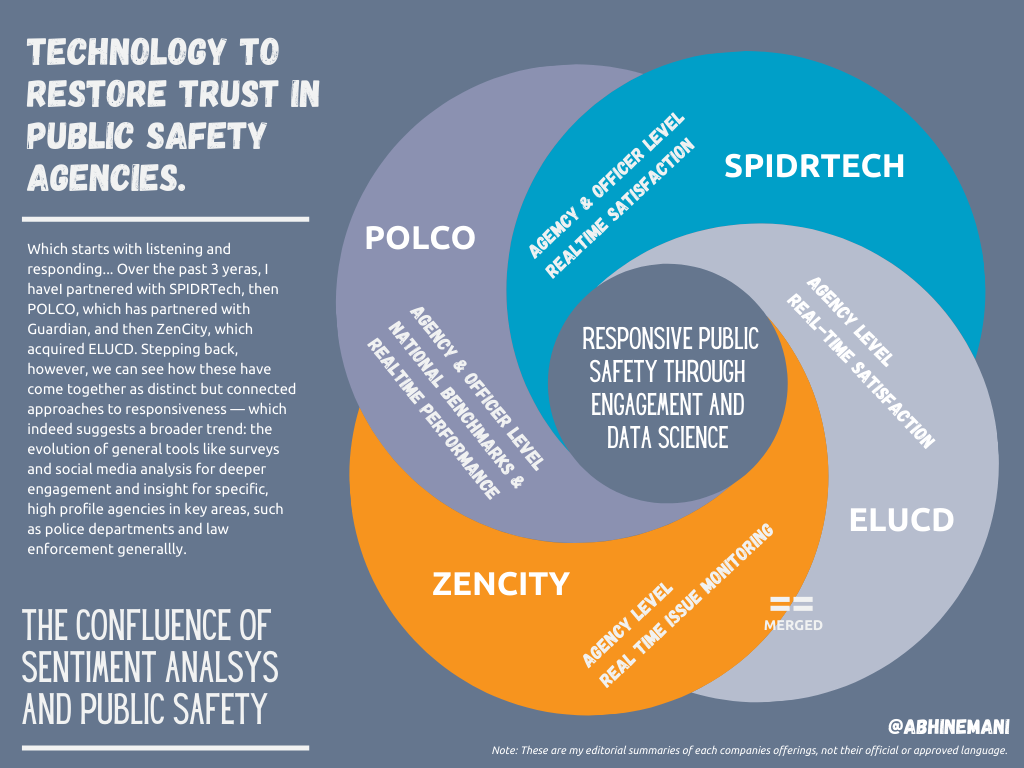
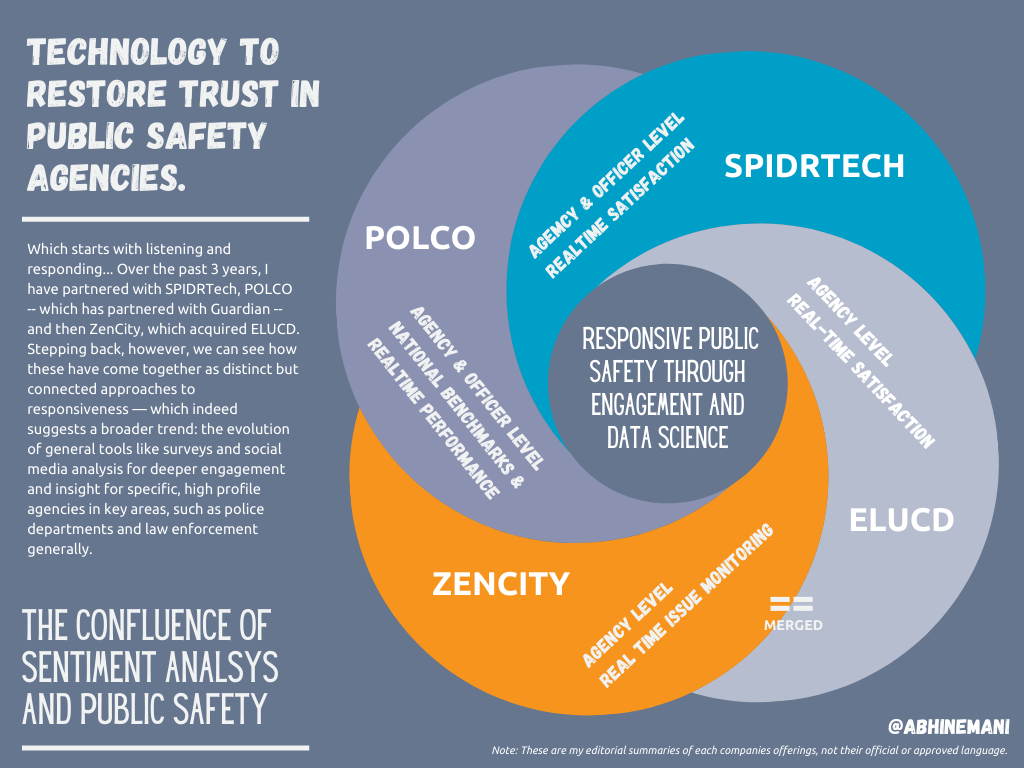
updated policing blog

Changed region(s): [[0.0312, 0.3438, 0.2812, 0.7188]]

diff --git a/_posts/2021-04-14-responsive-public-safety-data-science.md b/_posts/2021-04-14-responsive-public-safety-data-science.md
@@ -14,14 +14,16 @@ tags:
 ---
 ## Technology to Restore Trust in Public Safety agencies.
 
-Which starts with listening and responding... Over the past 3 yeras, I haveI partnered with [SPIDRTech](https://spidrtech.com), then [POLCO](https://polco.us), which [has partnered](https://blog.polco.us/polco-guardian-alliance-technologies-announce-partnership) with [Guardian Alliance](https://guardianalliancetechnologies.com/), and then [ZenCity](https://zencity.io), which acquired [ELUCD](https://ELUCD.com). 
+Which starts with listening and responding... Over the past 3 yeras, I haveI partnered with [SPIDRTech](https://spidrtech.com), then [POLCO](https://polco.us), which [has partnered](https://blog.polco.us/polco-guardian-alliance-technologies-announce-partnership) with [Guardian Alliance](https://guardianalliancetechnologies.com/), and then [ZenCity](https://zencity.io), which acquired [ELUCD](https://ELUCD.com). All of these companies and initiatives have centered around using social media (and other community engagement channels) to determine and influence policy.
 
 ## The confluence of Sentiment Analysis and Public Safety
 Stepping back, however, we can see how these have come together as distinct but connected approaches to responsiveness — which indeed suggests a broader trend: the evolution of general tools like surveys and social media analysis for deeper engagement and insight for specific, high profile agencies in key areas, such as police departments and law enforcement generallly.
 
 More to the point, as govtech startups  go deeper into a public sector vertical (e.g., law enforcement) opportunties to use more general horizontal government or private sector approaches will emerge. These opportunties should be product or strategy decisions for exisitng players and a guidestar for new entreprenuers. 
 
-Over the next few week, I will be exploring the approaches from each of these innovative companies. Stay tuned. For now, more resources below:
+Explore the infographic: 
+
+![Social Media and Sentiment Analysis](/img/responsiveness.png) 
 
 ## Learn more:
 [Learn about the relationship between data and operations/policy.](https://abhinemani.com/lessons/03-data-policy.html)

diff --git a/_posts/2022-08-18-polemic.md b/_posts/2022-08-18-polemic.md
@@ -23,7 +23,7 @@ Takeaways for state leaders (or all government leaders, in fact) are these three
 - From an App Store to a Competitive Marketplace
 - From Recruiting "Rockstars" to Capacity Building
 
-## Slides & Video
+## Presentation Materials
 <div class="container-iframe">
 <iframe id="pdf-js-viewer" src="{{site.url}}/decks/web/viewer.html?file={{site.url}}/decks/TASSCC.pdf" title="webviewer" frameborder="0" width="500" height="600" class="responsive-iframe"></iframe>
 </div>
